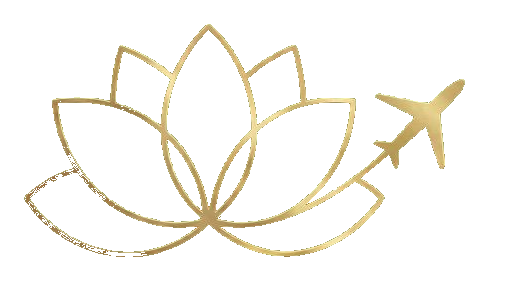
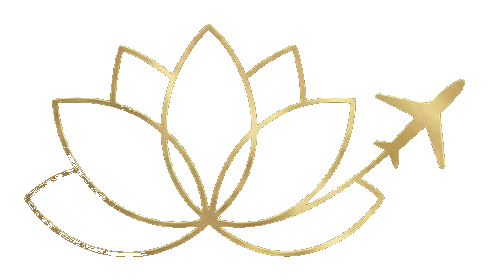
mobile + stamp + checkmark polish
- H1: shrink on mobile so "SKY BY ADI AHARONI - DREAM IT. VISIT IT" fits 2 lines (not 3)
- fee table (4.2): center amount column + keep ₪ on one line
- stamp: re-center on the lotus itself (not lotus+airplane centroid); symmetric arcs (r=66) so top/bottom text are equidistant from the ring and don't touch it
- replace jarring green ✅ emoji with a clean gold gradient check badge

Changed region(s): [[0.0301, 0.0857, 0.9337, 0.9143]]

diff --git a/contract.html b/contract.html
@@ -211,6 +211,10 @@
       padding-bottom: 10px;
       margin-bottom: 22px;
       text-align: center;
+      text-wrap: balance;
+    }
+    @media (max-width: 580px) {
+      .contract-body h1 { font-size: 0.9rem; line-height: 1.55; }
     }
     .intro-text {
       background: linear-gradient(180deg, #fffdf7, #fbf6ea);
@@ -283,7 +287,7 @@
     table.fee-table td { padding: 9px 12px; border-bottom: 1px solid var(--cream-dark); }
     table.fee-table tr:nth-child(even) td { background: var(--cream); }
     /* עמודת הסכום - תמיד בשורה אחת (₪ לא נשבר לשורה נפרדת) */
-    table.fee-table th:last-child, table.fee-table td:last-child { white-space: nowrap; }
+    table.fee-table th:last-child, table.fee-table td:last-child { white-space: nowrap; text-align: center; }
     /* עמודת "תיאור" ממורכזת לאוורור */
     table.fee-table th:nth-child(2), table.fee-table td:nth-child(2) { text-align: center; }
     @media (max-width: 580px) {
@@ -430,6 +434,7 @@
     #submit-btn:hover { box-shadow: 0 10px 28px rgba(45,80,22,0.40); filter: brightness(1.05); }
     #submit-btn:active { transform: scale(0.98); }
     #submit-btn:disabled { background: #aaa; box-shadow: none; cursor: not-allowed; }
+    #submit-btn .chk { width: 1.2em; height: 1.2em; vertical-align: -0.24em; margin-left: 9px; filter: drop-shadow(0 1px 1px rgba(0,0,0,0.25)); }
     .validation-msg { font-size: 0.8rem; color: #c0392b; margin-top: 10px; }
 
     /* ── SIGNATURE CANVAS PAD ── */
@@ -998,8 +1003,8 @@ SKY BY ADI AHARONI - DREAM IT. VISIT IT">
           <!-- חותמת עגולה בצבעי הלוגו: רקע ירוק + לוטוס וטקסט זהב -->
           <svg class="stamp-svg" viewBox="0 0 220 220" role="img" aria-label="חותמת SKY BY ADI AHARONI">
             <defs>
-              <path id="arcTop" d="M 38,110 A 72,72 0 0 1 182,110"/>
-              <path id="arcBot" d="M 42,110 A 68,68 0 0 0 178,110"/>
+              <path id="arcTop" d="M 44,110 A 66,66 0 0 1 176,110"/>
+              <path id="arcBot" d="M 44,110 A 66,66 0 0 0 176,110"/>
             </defs>
             <circle cx="110" cy="110" r="104" fill="#2d6a23"/>
             <g fill="none" stroke="#D8BE86" stroke-width="2.2">
@@ -1026,7 +1031,7 @@ SKY BY ADI AHARONI - DREAM IT. VISIT IT">
       <div class="terms-note">
         לחיצה על הכפתור תשלח את החתימה לנותן השירות וישמר תיעוד כולל: שם, ת.ז., כתובת IP, שעה ותאריך.
       </div>
-      <div class="btn-glow"><button type="submit" id="submit-btn">✅ קראתי, הבנתי ואני מאשר/ת את תנאי ההסכם</button></div>
+      <div class="btn-glow"><button type="submit" id="submit-btn"><svg class="chk" viewBox="0 0 24 24" aria-hidden="true"><defs><linearGradient id="chkGold" x1="0" y1="0" x2="0" y2="1"><stop offset="0" stop-color="#EBD79A"/><stop offset="0.5" stop-color="#C2A060"/><stop offset="1" stop-color="#A8842F"/></linearGradient></defs><circle cx="12" cy="12" r="11" fill="url(#chkGold)" stroke="#8c6c25" stroke-width="0.8"/><path d="M6.6 12.7 l3.4 3.4 L17.6 7.4" fill="none" stroke="#fff" stroke-width="2.5" stroke-linecap="round" stroke-linejoin="round"/></svg>קראתי, הבנתי ואני מאשר/ת את תנאי ההסכם</button></div>
       <div class="validation-msg" id="validation-msg"></div>
     </div>
   </form>